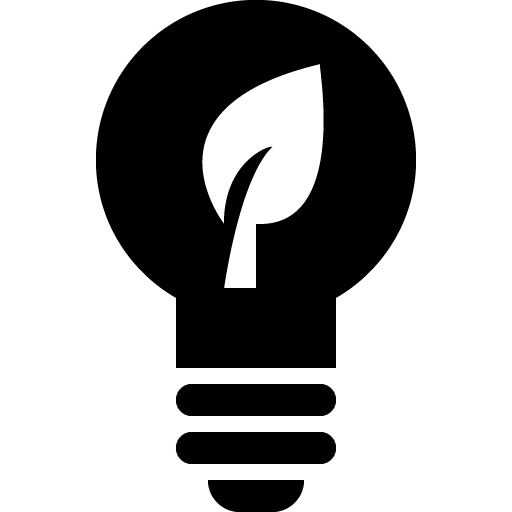
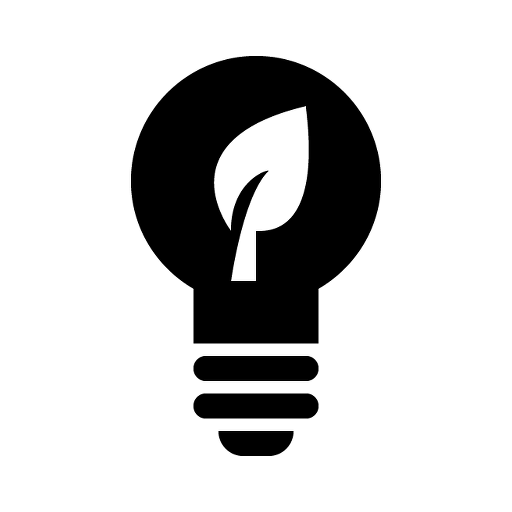
Scale factor for images that not match screen scale factor

Changed region(s): [[0.1875, 0.0, 0.8125, 0.8125], [0.3438, 0.8125, 0.6562, 0.9062], [0.4062, 0.9375, 0.5938, 1.0]]

diff --git a/Pod/Classes/KPProgressImageView.m b/Pod/Classes/KPProgressImageView.m
@@ -40,7 +40,7 @@
 
 -(void)setup{
     self.progressPercent = 0.f;
-    self.progressDirection = KPProgressDirectionRightToLeft;
+    self.progressDirection = KPProgressDirectionLeftToRight;
 }
 
 -(void)setImage:(UIImage *)image{
@@ -59,10 +59,20 @@
 }
 
 -(void)detectImageContentInsets:(UIImage *)image{
-    self.imageContentInsets = [image transparencyInsetsRequiringFullOpacity:YES];
+    CGFloat screenScale = CGImageGetWidth(image.CGImage)/image.size.width;
+    NSLog(@"%f",screenScale);
+    self.imageContentInsets = [image transparencyInsetsRequiringFullOpacity:NO];
+    
+    self.imageContentInsets = UIEdgeInsetsMake(self.imageContentInsets.top/screenScale, self.imageContentInsets.left/screenScale, self.imageContentInsets.bottom/screenScale, self.imageContentInsets.right/screenScale);
+    
+    
+
 }
 
 -(void)setupImage:(UIImage *)image{
+    if(!image){
+        return;
+    }
     UIGraphicsBeginImageContextWithOptions(image.size, NO, 0.0f);
     UIColor* tintColor = self.tintColor;
     [tintColor setFill];
